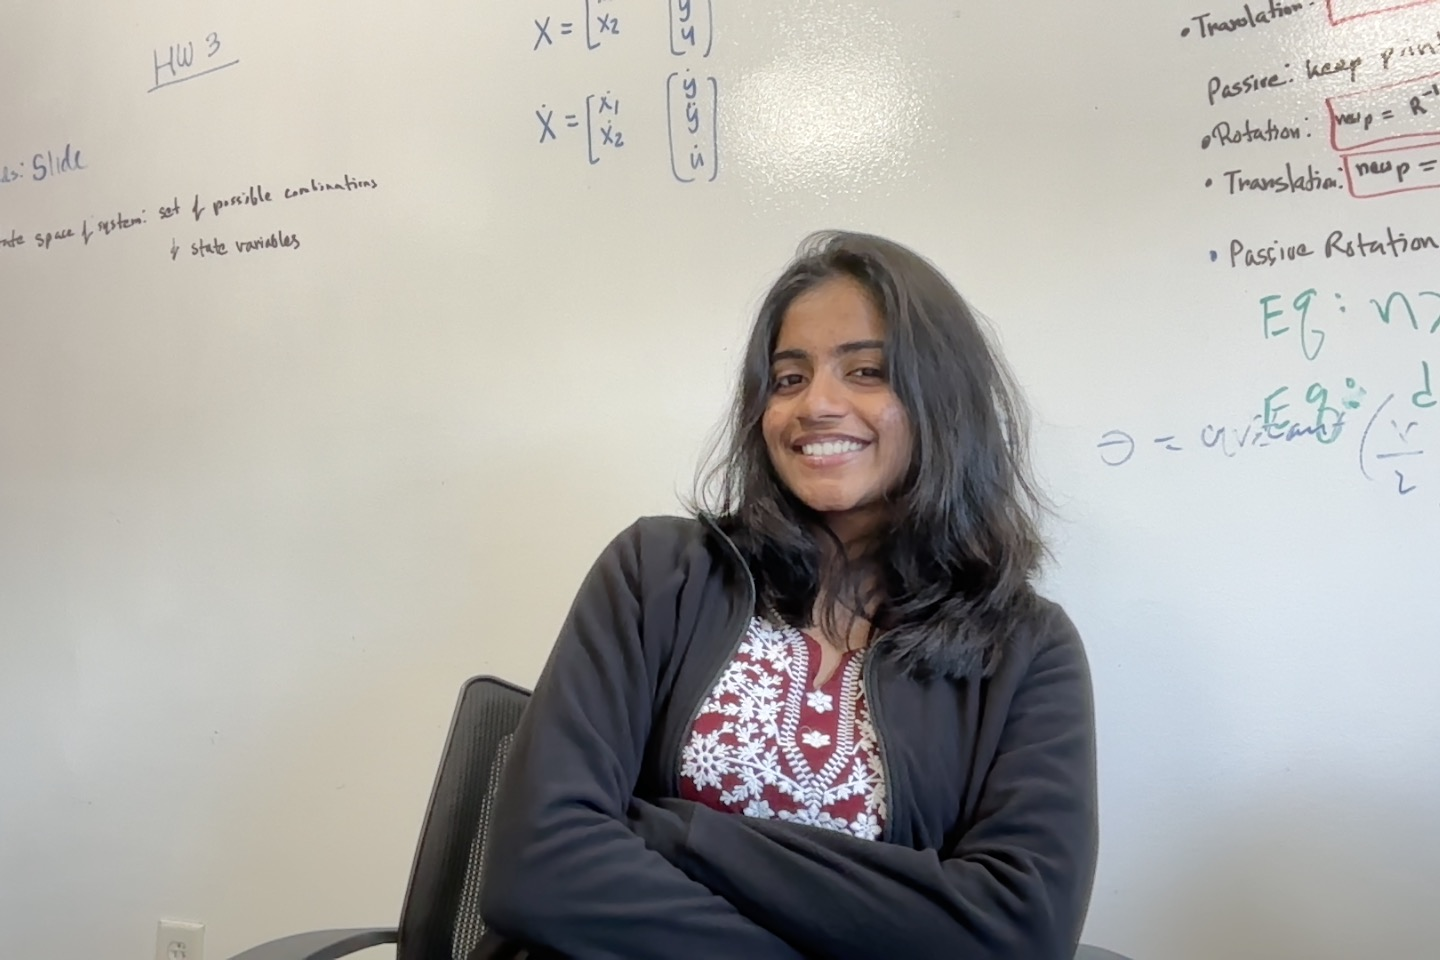
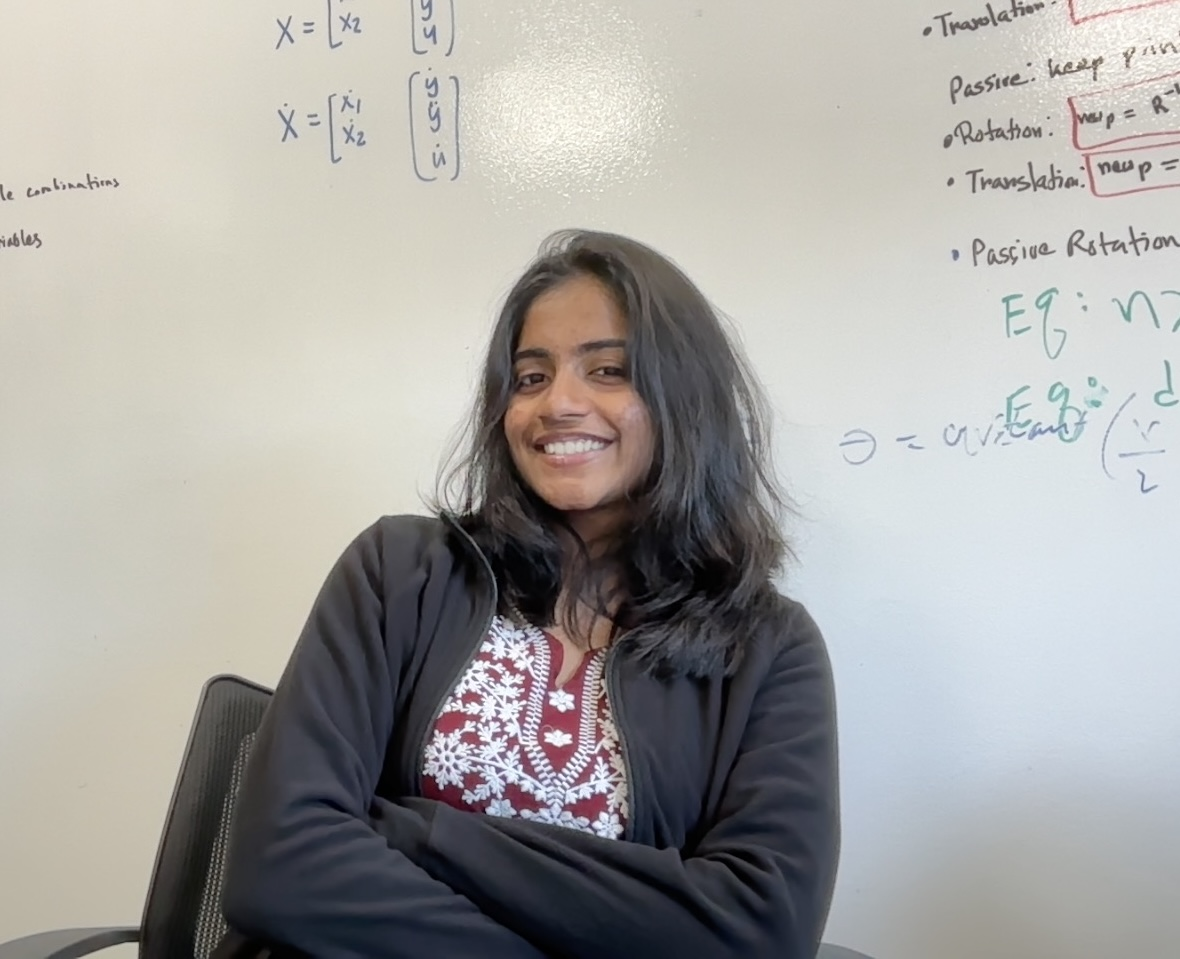
pfp

diff --git a/index.html b/index.html
@@ -24,7 +24,7 @@
 
   <!-- Hero Section -->
   <section id="hero">
-    <img src="assets/Photo.JPG" alt="Yukkta Seelam" class="profile-pic">
+    <img src="assets/photo.JPG" alt="Yukkta Seelam" class="profile-pic">
     <div class="hero-content">
       <h2>Hi there! I'm</h2>
       <h1>Yukkta Seelam</h1>
